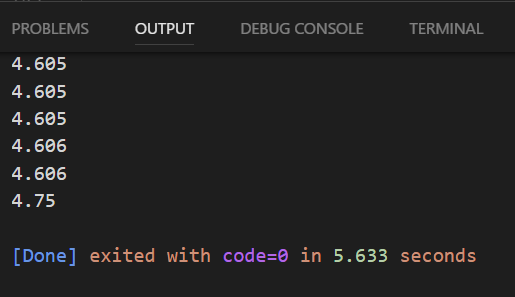
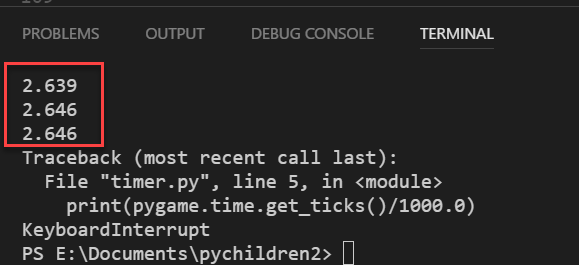
revised timer section

diff --git a/pychildren-guide/site/lesson05/index.html b/pychildren-guide/site/lesson05/index.html
@@ -239,7 +239,9 @@ while gameOn:
 <pre><code>timer_surface = timer_font.render("Time : " + str(timer), False, YELLOW)
 
 DISPLAY.blit(timer_surface, (0,0))
-</code></pre></div>
+</code></pre>
+<p>Remember to blank out the screen each cycle before you blit elements.</p>
+<p><img alt="" src="../img/timerDisplay.gif" /></p></div>
         </div>
 
         <footer class="col-md-12">

diff --git a/pychildren-guide/site/index.html b/pychildren-guide/site/index.html
@@ -173,5 +173,5 @@ requested by my daughter.</p>
 
 <!--
 MkDocs version : 0.16.3
-Build Date UTC : 2017-08-17 04:04:13
+Build Date UTC : 2017-08-17 04:14:23
 -->

diff --git a/timer.py b/timer.py
@@ -1,18 +1,8 @@
 import pygame
-
 pygame.init()
 
-clock = pygame.time.Clock()
-
-SIZE = (800, 600)
-
-DISPLAY = pygame.display.set_mode(SIZE)
-
-gameOn = True
-
-while gameOn:
-    for event in pygame.event.get():
-        if event.type == pygame.QUIT:
-            gameOn = False
-    print(pygame.time.get_ticks())
-    pygame.display.update()
+while True:
+    timer_number = pygame.time.get_ticks() / 1000.0
+    timer_one_decimal = round(timer_number, 1)
+    timer_string = str(timer_one_decimal)
+    print(timer_string)

diff --git a/pychildren-guide/docs/lesson05.md b/pychildren-guide/docs/lesson05.md
@@ -2,12 +2,12 @@
 
 ![](img/lesson05.png)
 
-### Text
+### Display Text on Screen
 
 To use fonts, you need three steps:
 
-1. initialize fonts with pygame.font.Font(*font name*, *font size*)
-2. render font
+1. assign a variable to `pygame.font.Font`(*font name*, *font size*)
+2. render font and assign it to variable_surface
 3. blit rendered font to screen
 
 Example
@@ -16,7 +16,7 @@ Example
 
 In while loop.
 
-    timer_surface = timer_font.render("Time : " + "17", False, YELLOW)
+    timer_surface = timer_font.render("Time: ", False, YELLOW)
     DISPLAY.blit(timer_surface, (0,0))
 
 
@@ -46,109 +46,99 @@ In while loop.
 
 ### Time
 
-Set starting time. Above while loop.
-
-    start_time = pygame.time.get_ticks()
-
-[Documentation](https://www.pygame.org/docs/ref/time.html)
+You can get the time elapsed since the game was started 
+with `pygame.time.get_ticks()`
 
 #### Example use of `get_ticks()`
 
-    import pygame
+The example below does not bring up the the pygame window. It will only output text to the terminal. You must start your program from the terminal, not from the play button.
 
+
+    import pygame
     pygame.init()
 
-    clock = pygame.time.Clock()
-
-    SIZE = (800, 600)
-
-    DISPLAY = pygame.display.set_mode(SIZE)
-
-    gameOn = True
-
-    while gameOn:
-        for event in pygame.event.get():
-            if event.type == pygame.QUIT:
-                gameOn = False
+    while True:
         print(pygame.time.get_ticks())
-        pygame.display.update()
 
 
-#### Calculate current time inside of while loop
+![](img/timer/pythonTimer.png)
 
-    current_time = pygame.time.get_ticks() - start_time
+![](img/timer/noPlay.png)
 
-#### Example of Current Time
+To stop the program, press CTRL-c.
 
-    import pygame
+![](img/timer/milli.png)
 
-    pygame.init()
+#### Convert from millisecond to seconds
 
-    clock = pygame.time.Clock()
+`pygame.time.get_ticks()` will return 
+a long number with a lot of digits. To make the number
+shorter, divide it by 1000.0
 
-    SIZE = (800, 600)
-
-    DISPLAY = pygame.display.set_mode(SIZE)
-
-    start_time = pygame.time.get_ticks()
-
-    gameOn = True
-
-    while gameOn:
-        for event in pygame.event.get():
-            if event.type == pygame.QUIT:
-                gameOn = False
-        current_time = pygame.time.get_ticks() - start_time
-        print(current_time)
-        pygame.display.update()
-
-#### Convert from millisecond to string
-
-    timer = current_time / 1000.0
+    timer_number = pygame.time.get_ticks() / 1000.0
 
 #### Example of getting time in seconds
 
     import pygame
-
     pygame.init()
 
-    clock = pygame.time.Clock()
-
-    SIZE = (800, 600)
-
-    DISPLAY = pygame.display.set_mode(SIZE)
-
-    start_time = pygame.time.get_ticks()
-
-    gameOn = True
-
-    while gameOn:
-        for event in pygame.event.get():
-            if event.type == pygame.QUIT:
-                gameOn = False
-        current_time = pygame.time.get_ticks() - start_time
-        timer = current_time / 1000.0
-        print(timer)
-        pygame.display.update()
+    while True:
+        print(pygame.time.get_ticks()/1000.0)
 
 This will display elapsed time with too many decimal places.
 
 ![](img/timer.png)
 
 #### Show only first decimal place
-        
-    timer = "{0:.1f}".format(timer)
+
+First, assign timer to a variable.
+
+    import pygame
+    pygame.init()
+
+    while True:
+        timer_number = pygame.time.get_ticks() / 1000.0
+        print(timer_number)
+
+![](img/timer/timer_number.png)
+
+You now need to round it the time to only one decimal place. 
+Use the new python command `round`*(number, decimal places)*.
+
+    import pygame
+    pygame.init()
+
+    while True:
+        timer_number = pygame.time.get_ticks() / 1000.0
+        timer_one_decimal = round(timer_number, 1)
+        print(timer_one_decimal)
 
 
-![](img/timer2.png)
 
+![](img/timer/one_decimal.png)
 
-[Documentation](https://www.digitalocean.com/community/tutorials/how-to-use-string-formatters-in-python-3)
+Before you can blit the time to the screen, you will need 
+to convert the number into a string.
 
+    timer_string = str(timer_one_decimal)
+
+The complete code you need to get a string for the elapsed time with one 
+decimal place is shown below.
+
+    import pygame
+    pygame.init()
+
+    while True:
+        timer_number = pygame.time.get_ticks() / 1000.0
+        timer_one_decimal = round(timer_number, 1)
+        print(timer_one_decimal)
 
 #### Display Timer
 
-    timer_surface = timer_font.render("Time : " + str(timer), False, YELLOW)
+You can now combine the pygame window that had the time with the 
+timer string code.
+
+    timer_surface = timer_font.render("Time : " + timer_string, True, YELLOW)
         
     DISPLAY.blit(timer_surface, (0,0))
 
